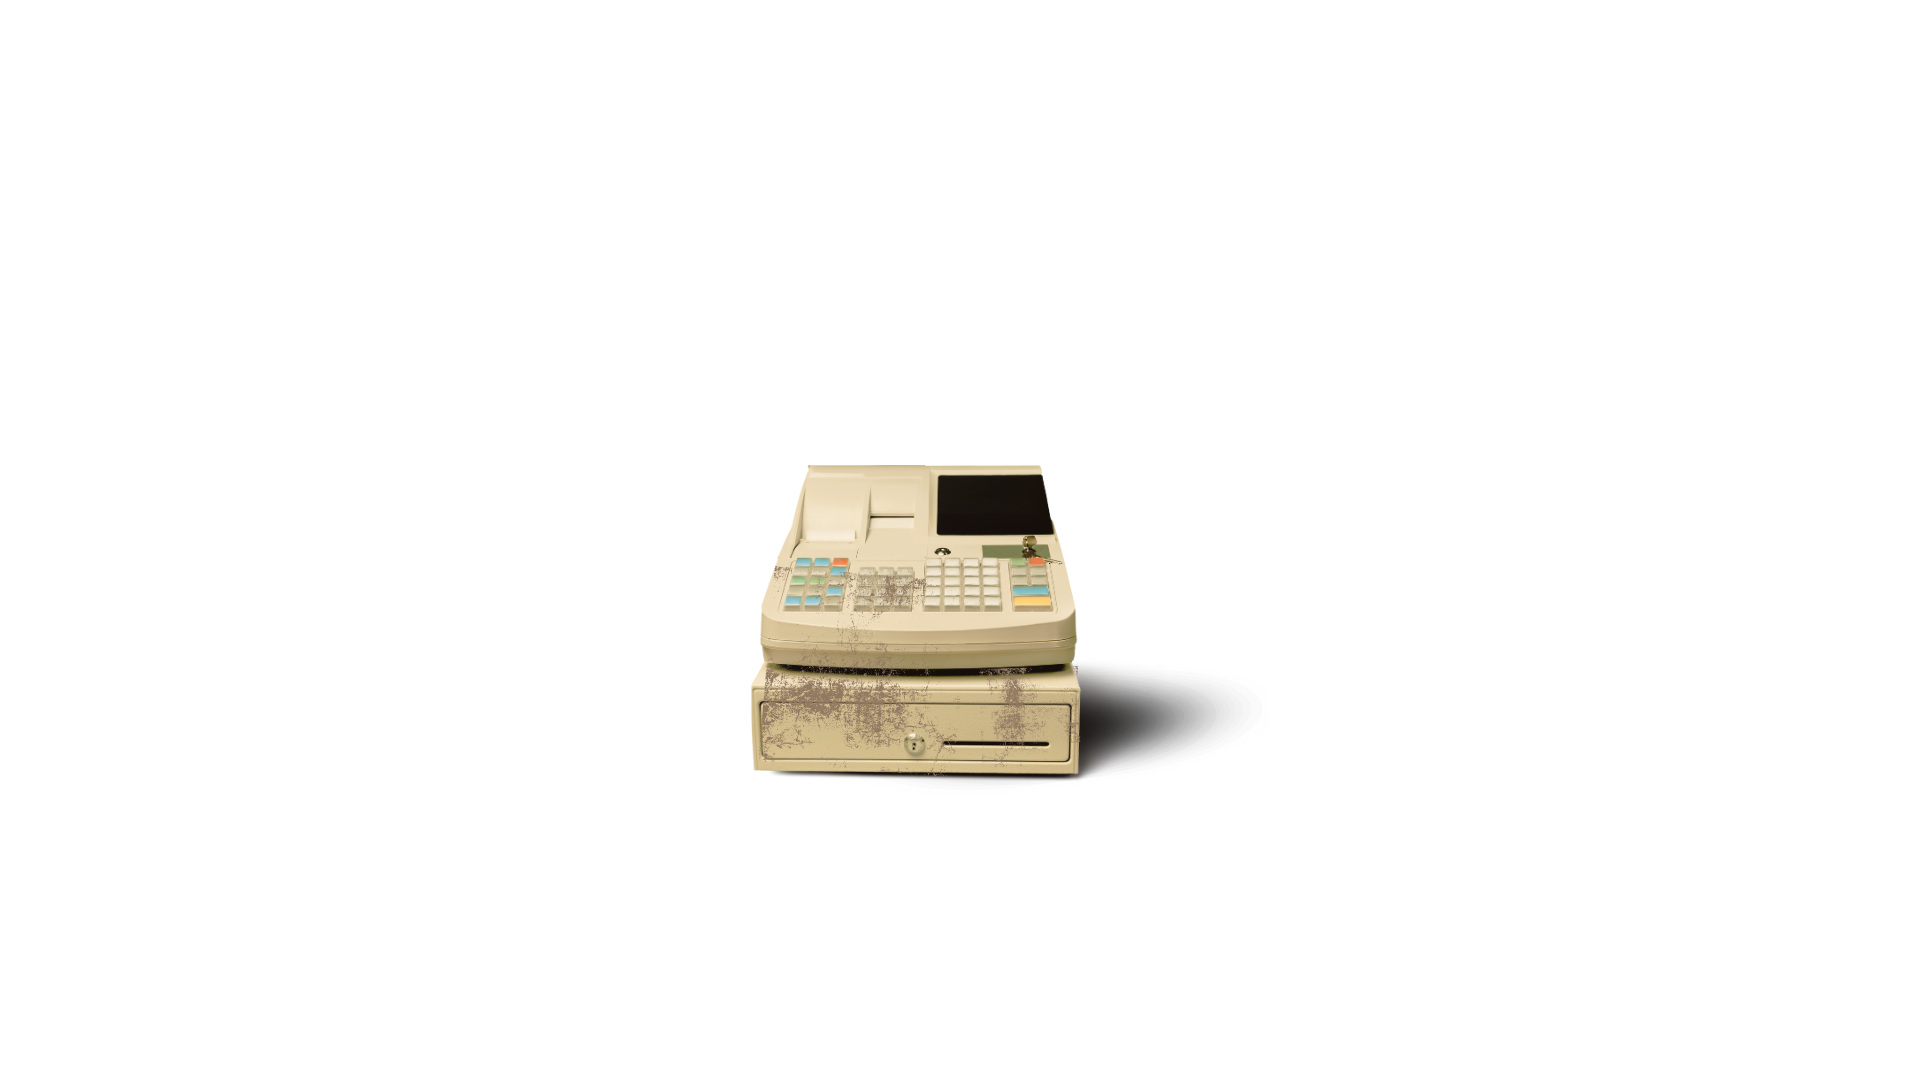
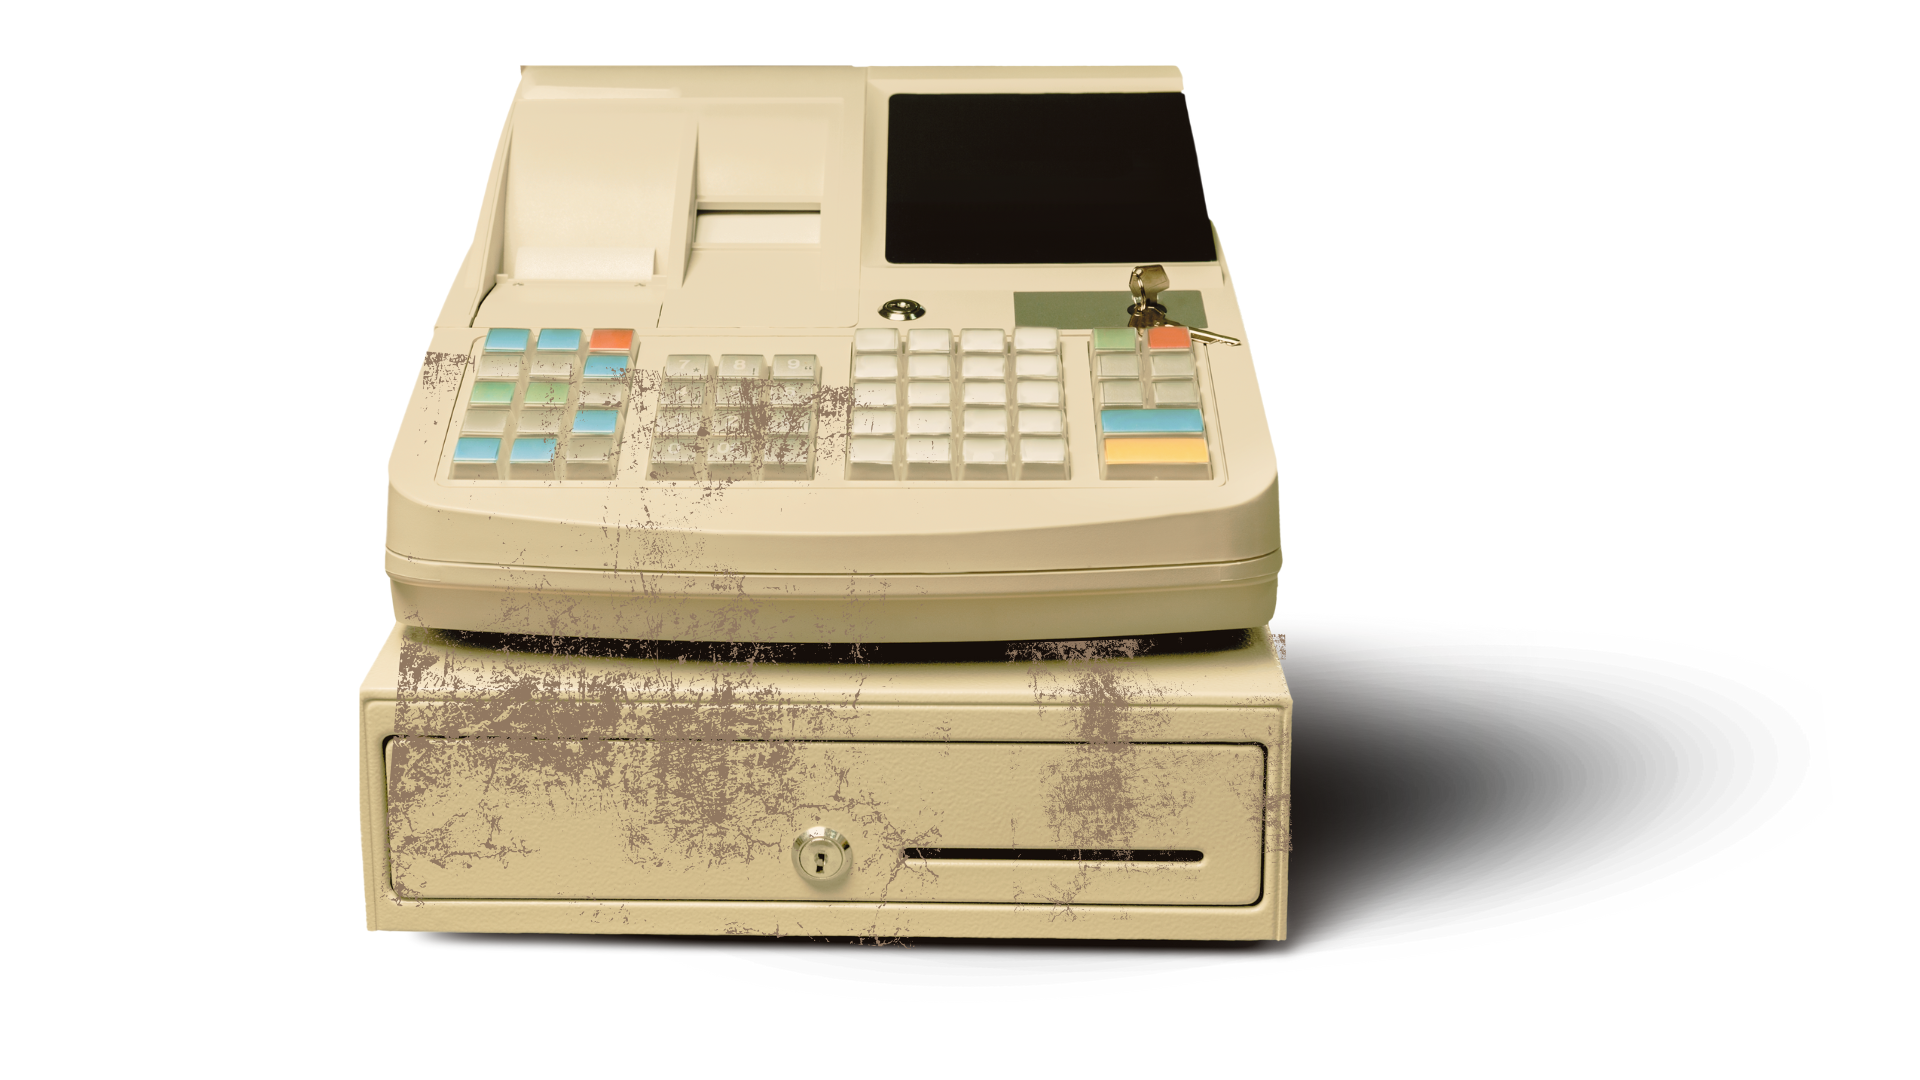
sumamos al policia
no funciona su contador, y el dialogo del primer cliente se buguea

diff --git a/frontend/src/app/pages/Soldati/mostrador/page.js b/frontend/src/app/pages/Soldati/mostrador/page.js
@@ -10,11 +10,6 @@ export default function MostradorLogica() {
     const [score, setScore] = useState(0); // Definimos el estado para el puntaje
     const [showRecipeModal, setShowRecipeModal] = useState(false); // Estado para el modal de recetas
     const [persianaAbierta, setPersianaAbierta] = useState(false);
-
-    // Función para abrir o cerrar la persiana
-    const togglePersiana = () => {
-        setPersianaAbierta(!persianaAbierta);
-    };
     
     // Función para abrir/cerrar el modal de recetas
     const toggleRecipeModal = () => {
@@ -36,6 +31,15 @@ export default function MostradorLogica() {
     const [showDialogue2, setShowDialogue2] = useState(false);
     const [timeLeft2, setTimeLeft2] = useState(30);
     const [hasReceivedFood2, setHasReceivedFood2] = useState(false); 
+
+    // Estados para el policia
+    const [showImage3, setShowImage3] = useState(false);
+    const [slideIn3, setSlideIn3] = useState(false);
+    const [slideOut3, setSlideOut3] = useState(false);
+    const [showDialogue3, setShowDialogue3] = useState(false);
+    const [timeLeft3, setTimeLeft3] = useState(5);
+    const [hasClosedPersiana, setHasClosedPersiana] = useState(false);
+
 
     const playImgRef = useRef(null);
     const soundRef = useRef(null);
@@ -61,7 +65,7 @@ export default function MostradorLogica() {
             if (!hasReceivedFood1) {  
                 setSlideIn1(false);
                 setSlideOut1(true);
-                setShowDialogue1(false);
+                setShowDialogue1(false); // Oculta el diálogo cuando el cliente se va automáticamente
                 const removeImageTimer1 = setTimeout(() => setShowImage1(false), 500);
                 return () => clearTimeout(removeImageTimer1);
             }
@@ -119,6 +123,54 @@ export default function MostradorLogica() {
         };
     }, [hasReceivedFood2]);
     
+    
+    // Configuración del cliente 3
+    useEffect(() => {
+        const showImageTimer3 = setTimeout(() => {
+            setShowImage3(true);
+            setTimeout(() => setSlideIn3(true), 100);
+        }, 61000); // Aparece después de los dos primeros
+    
+        const dialogueTimer3 = setTimeout(() => setShowDialogue3(true), 62000);
+    
+        // Temporizador para el cliente 3
+        const countdownInterval3 = setInterval(() => {
+            setTimeLeft3(prev => {
+                if (prev > 0) return prev - 1;
+                clearInterval(countdownInterval3);
+                return 0;
+            });
+        }, 1000);
+    
+        // Ocultar cliente 3 después de 5 segundos si la persiana está cerrada
+        const hideImageTimer3 = setTimeout(() => {
+            setSlideIn3(false);
+            setSlideOut3(true);
+            setShowDialogue3(false);
+            setShowImage3(false);
+        }, 66000); // Se oculta después de 5 segundos de estar visible
+    
+        const removeImageTimer3 = setTimeout(() => {
+            setShowImage3(false);
+        }, 5000); // Elimina la imagen después de 5 segundos
+    
+        return () => {
+            clearTimeout(showImageTimer3);
+            clearTimeout(dialogueTimer3);
+            clearInterval(countdownInterval3);
+            clearTimeout(hideImageTimer3);
+            clearTimeout(removeImageTimer3);
+        };
+    }, [hasClosedPersiana]); // Asegúrate de que esto esté en el arreglo de dependencias
+
+    // Modifica togglePersiana para registrar si se cerró cuando aparece el cliente 3
+    const togglePersiana = () => {
+        setPersianaAbierta(!persianaAbierta);
+        if (!persianaAbierta && showImage3) {
+            setHasClosedPersiana(true);
+        }
+    };
+    
 
     // Función para entregar el budín al cliente
     const handleGiveFood = () => {
@@ -129,16 +181,14 @@ export default function MostradorLogica() {
         }
     };
 
-    // Función para hacer clic en el cliente y que se vaya si ha recibido comida
     const handleClientClick = (clientNumber) => {
         if (clientNumber === 1 && hasReceivedFood1) {
-            setScore(prevScore => prevScore + 50); // Incrementa el puntaje al cumplir la interacción
+            setScore(prevScore => prevScore + 50);
             setSlideIn1(false);
             setSlideOut1(true);
-            setShowDialogue1(false); // Oculta el diálogo al irse el cliente
             setTimeout(() => {
                 setShowImage1(false);
-                setShowDialogue1(false); // Asegúrate de que el diálogo esté oculto
+                setShowDialogue1(false); // Oculta el diálogo después de que el cliente se va
             }, 500);
         } else if (clientNumber === 2 && hasReceivedFood2) {
             setScore(prevScore => prevScore + 30);
@@ -180,6 +230,18 @@ export default function MostradorLogica() {
                 timeLeft={timeLeft2}
                 onClientClick={() => handleClientClick(2)}
             />
+
+            <Cliente
+                src="/clientes/Policia.png"
+                alt="Cliente 3"
+                dialogue="¡Necesito ver los papeles del negocio!"
+                showImage={showImage3}
+                slideIn={slideIn3}
+                slideOut={slideOut3}
+                showDialogue={showDialogue3}
+                timeLeft={timeLeft3}
+            />
+
 
             {/* Botón de recetas */}
             <button onClick={toggleRecipeModal} className={styles.openModalButton}>
@@ -228,7 +290,7 @@ export default function MostradorLogica() {
             <img
             src="/objetos/cajaRegistradoraSoldati.png"
             alt="Caja registradora"
-            className={styles.cajaRegistadora}
+            className={styles.imgCajaRegistradora}
             />
 
         <div>

diff --git a/frontend/src/app/pages/Soldati/mostrador/mostradorsoldati.module.css b/frontend/src/app/pages/Soldati/mostrador/mostradorsoldati.module.css
@@ -149,12 +149,11 @@
 }
 
 .imgRadio {
-    float: left;
-    margin-left: 450px; /* Adjust as needed */
-    top: 780px;
-    left: 800px;
-    width: 220px;
-    height: 130px;
+    position: absolute;
+    top: 480px;
+    left: 1190px;
+    width: 450px;
+    height: 280px;
     z-index: 30;
 }
 
@@ -181,11 +180,12 @@
     z-index: 30;
 }
 
-.cajaRegistradora {
+.imgCajaRegistradora {
     position: absolute;
-    top: 580px;
-    left: 800px;
-    width: 400px;
+    top: 470px;
+    width: 580px;
+    height: 325px;
+    left: 840px;
     z-index: 30;
 }
 
